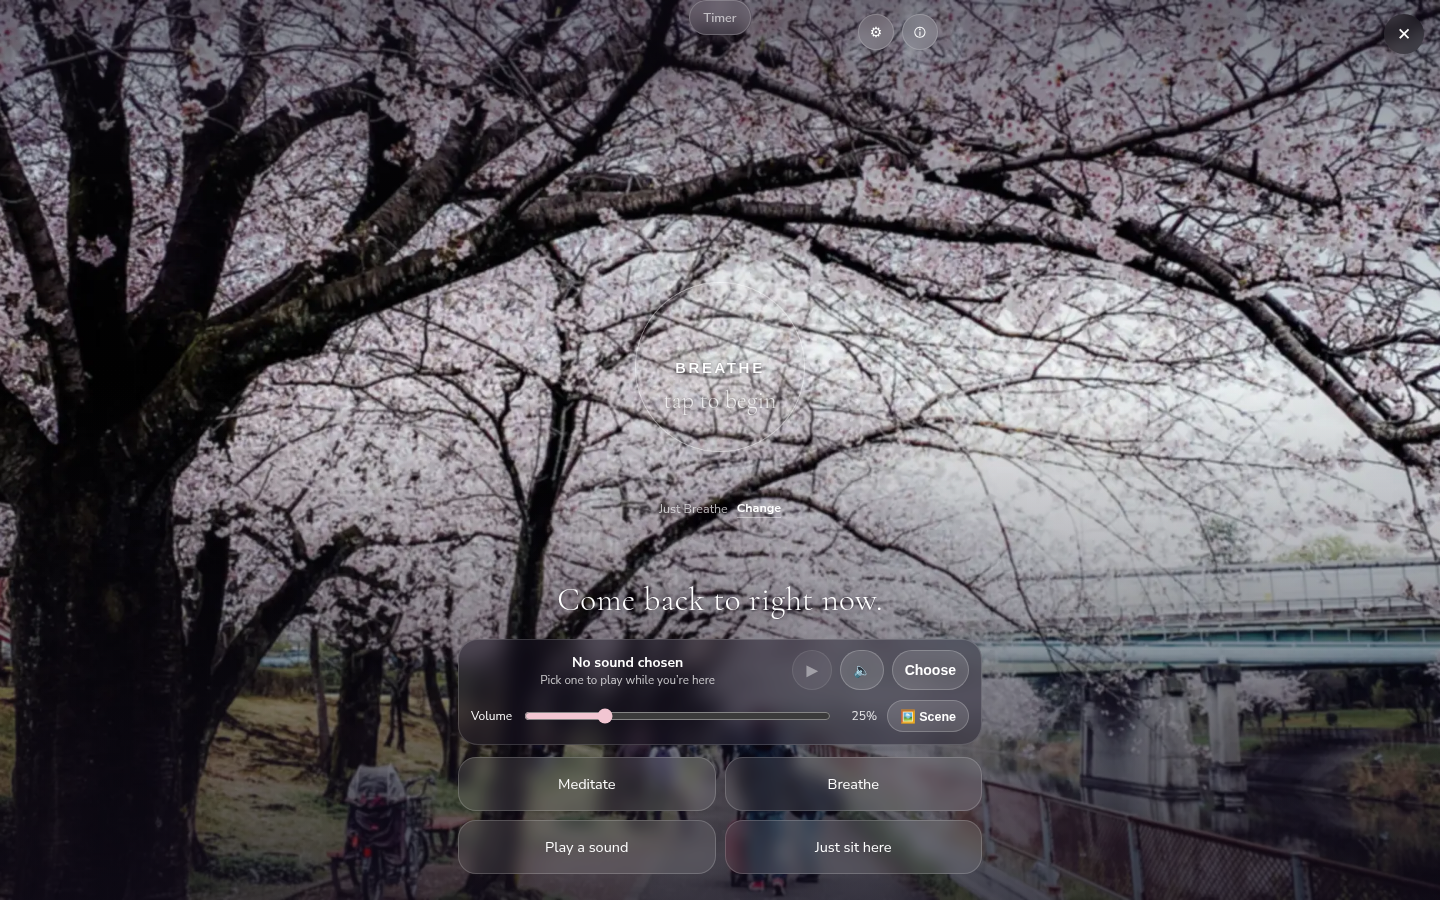
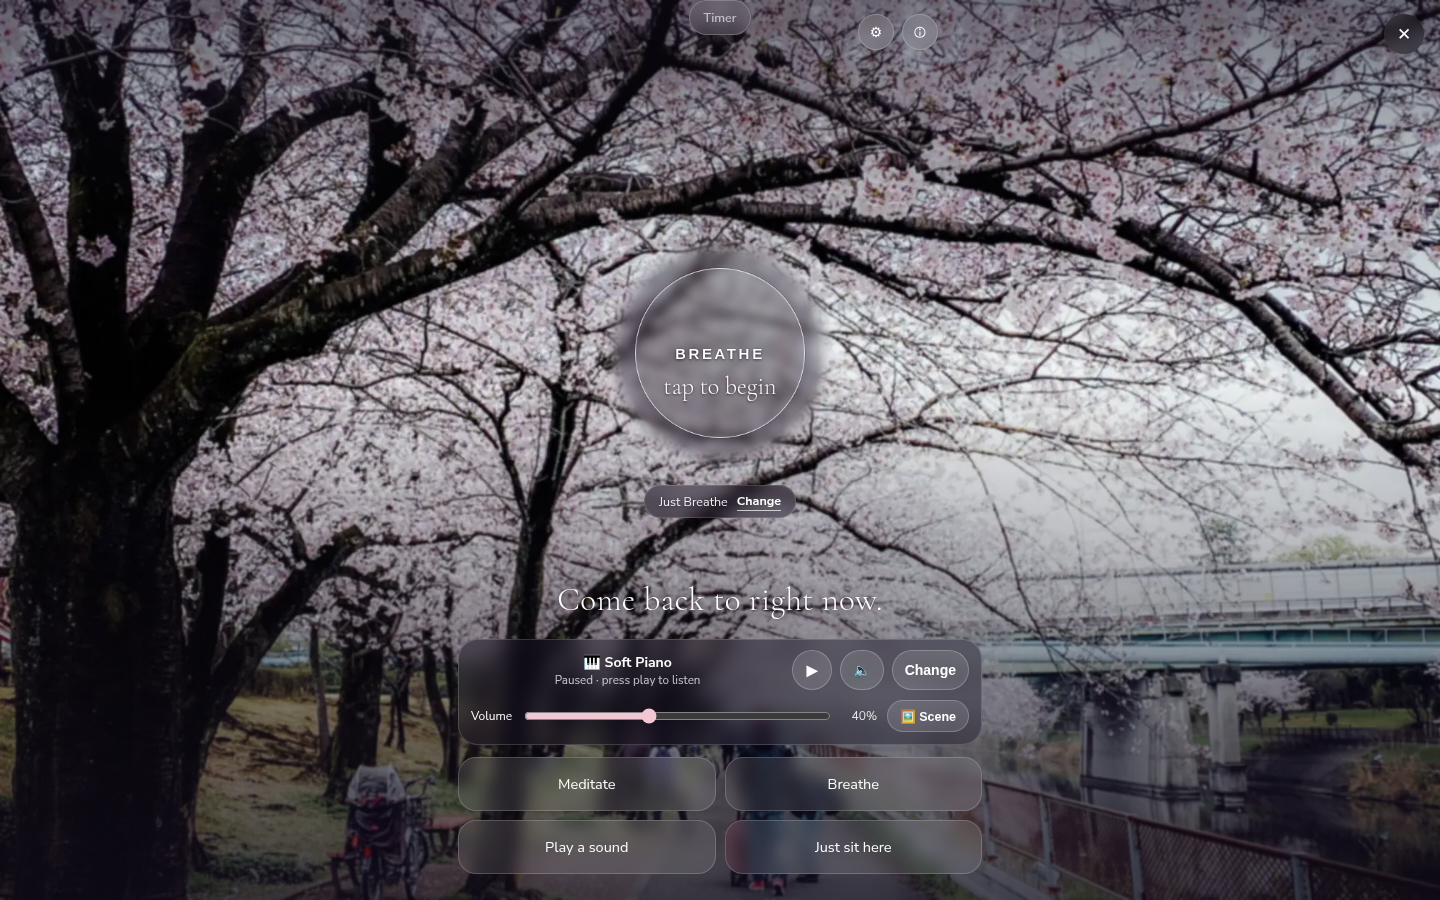
Sanctuary polish: frosted disc + stronger ring/text shadow behind breathing circle, pill behind technique name, sound tray subtitle wraps with shorter copy; fresh scene screenshots

Changed region(s): [[0.4062, 0.28, 0.5938, 0.5911], [0.375, 0.7156, 0.5, 0.8089]]

diff --git a/index.html b/index.html
@@ -1468,6 +1468,23 @@ body{height:100%;overflow:hidden;overscroll-behavior:none}
 .acctcard .who small{display:block;font-size:12.5px;color:var(--ink-soft,#6D6079);overflow:hidden;text-overflow:ellipsis}
 .wx.softrain{background:repeating-linear-gradient(100deg,transparent 0 15px,rgba(226,236,250,.12) 16px,transparent 18px);animation:rainMove 1.6s linear infinite;opacity:.8}
 @media (prefers-reduced-motion:reduce){.wx.softrain{animation:none;opacity:.5}}
+/* ---- polish: breathing circle readable over photos ---- */
+.sanc .bstage::before{content:'';position:absolute;left:50%;top:50%;width:230px;height:230px;margin:-115px 0 0 -115px;
+  border-radius:50%;pointer-events:none;z-index:0;
+  background:radial-gradient(circle,rgba(26,18,38,.40) 0%,rgba(26,18,38,.34) 55%,rgba(26,18,38,.16) 68%,rgba(26,18,38,0) 72%);
+  -webkit-backdrop-filter:blur(5px);backdrop-filter:blur(5px);
+  -webkit-mask-image:radial-gradient(circle,#000 0%,#000 60%,transparent 71%);mask-image:radial-gradient(circle,#000 0%,#000 60%,transparent 71%)}
+.sanc .bcircle{z-index:1;border:1.5px solid rgba(255,255,255,.88);
+  box-shadow:0 0 0 1px rgba(26,18,38,.22),0 0 22px rgba(26,18,38,.28),inset 0 0 18px rgba(255,255,255,.08)}
+.sanc .blabel{text-shadow:0 1px 3px rgba(20,14,30,.75),0 2px 16px rgba(20,14,30,.7)}
+.sanc .bsublabel{opacity:.95;text-shadow:0 1px 3px rgba(20,14,30,.8),0 2px 16px rgba(20,14,30,.7)}
+.sanc .bmeta{position:relative;z-index:1;color:rgba(255,255,255,.92);background:rgba(26,18,38,.42);
+  -webkit-backdrop-filter:blur(8px);backdrop-filter:blur(8px);padding:6px 14px;border-radius:999px;
+  border:1px solid rgba(255,255,255,.14);text-shadow:0 1px 3px rgba(20,14,30,.6)}
+.sanc .bmeta button{border-bottom-color:rgba(255,255,255,.7)}
+/* sound tray: subtitle wraps instead of being cut off */
+.sancplayer .spname{white-space:normal}
+.sancplayer .spname small{white-space:normal;line-height:1.3;margin-top:1px}
 
 </style>
 </head>
@@ -14362,7 +14379,7 @@ function renderSancPlayer(){
   const el=$('#sancPlayer'); if(!el) return;
   const id=sancSelected(), def=id?soundById(id):null, on=id&&Audio_.isOn(id), m=sancMuted();
   el.innerHTML=`<div class="sprow">
-      <span class="spname">${def?`${def.icon} ${esc8(def.name)}`:'No sound chosen'}<small>${def?(on?(m?'Playing · muted':'Playing'):'Paused — nothing plays until you press play'):'Pick one to play while you\u2019re here'}</small></span>
+      <span class="spname">${def?`${def.icon} ${esc8(def.name)}`:'No sound chosen'}<small>${def?(on?(m?'Playing · muted':'Playing'):'Paused · press play to listen'):'Choose a sound to play here'}</small></span>
       <button onclick="sancPlayPause()" aria-label="${on?'Pause':'Play'}" ${def?'':'disabled'}>${on?'❚❚':'▶'}</button>
       <button onclick="sancToggleMute()" aria-pressed="${m}" aria-label="${m?'Unmute':'Mute'}">${m?'🔇':'🔈'}</button>
       <button onclick="openTray('sound')">${def?'Change':'Choose'}</button></div>
